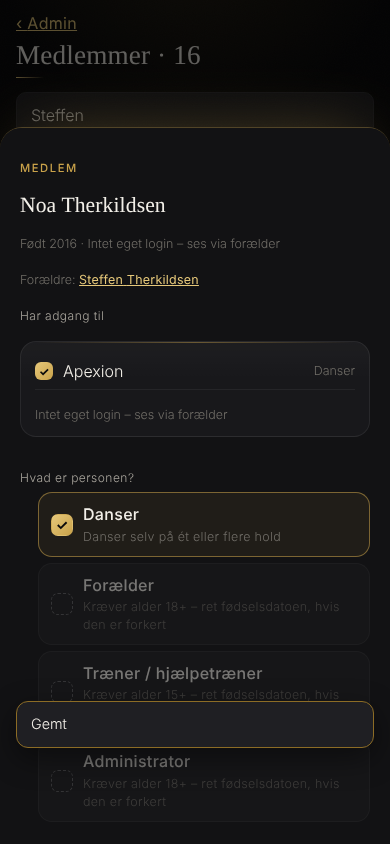
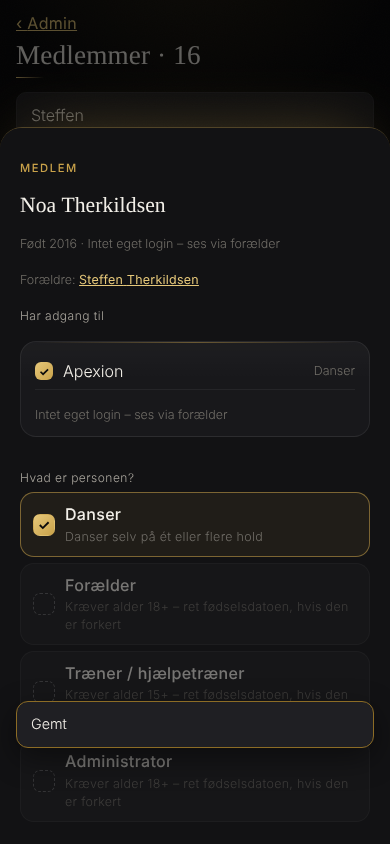
Admin members: pick existing dancer as child, drafted children created on Save, cleaner children UI
Claude-Session: https://claude.ai/code/session_01GGpukzb1UrCDBdg1Js3mqC

diff --git a/src/domain/llds/admin/MemberSheet.tsx b/src/domain/llds/admin/MemberSheet.tsx
@@ -37,10 +37,13 @@ export function MemberSheet({ member: p, all, teams, onClose, onChanged, onOpen,
   const [ms, setMs] = useState<{ team_id: string; role: Role }[]>(p.memberships.map((m) => ({ team_id: m.team_id, role: m.role })));
   const [kids, setKids] = useState<string[]>(p.children.map((c) => c.id));
   // children's dancer teams (draft) – edited through the "Forælder" chip on a team row
-  const [kidTeams, setKidTeams] = useState<Record<string, string[]>>(() => Object.fromEntries(p.children.map((c) => [c.id, (all.find((x) => x.id === c.id)?.memberships ?? []).filter((m) => m.role === "dancer").map((m) => m.team_id)])));
+  const [kidTeams] = useState<Record<string, string[]>>(() => Object.fromEntries(p.children.map((c) => [c.id, (all.find((x) => x.id === c.id)?.memberships ?? []).filter((m) => m.role === "dancer").map((m) => m.team_id)])));
   const [kidQ, setKidQ] = useState("");
+  const kidChips = (ids: string[], onToggle: (id: string) => void) => <div className="chips tight wrap">{[...teams].sort((a, b) => a.name.localeCompare(b.name, "da")).map((tm) => <button key={tm.id} type="button" className={"chip small" + (ids.includes(tm.id) ? " on" : "")} onClick={() => onToggle(tm.id)}>{tm.name}</button>)}</div>;
   const [pickOpen, setPickOpen] = useState(false);
   const [newKid, setNewKid] = useState<{ first_name: string; birth_date: string; team_ids: string[] } | null>(null);
+  // children drafted in this sheet – created only when Gem is pressed, so a wrong "Tilføj" can simply be removed again
+  const [drafts, setDrafts] = useState<{ tmp: string; first_name: string; birth_date: string; team_ids: string[] }[]>([]);
   const [busy, setBusy] = useState(false);
   const [confirmOff, setConfirmOff] = useState(false);
 
@@ -59,24 +62,32 @@ export function MemberSheet({ member: p, all, teams, onClose, onChanged, onOpen,
   }, [teams, t]);
 
   const candidates = useMemo(() => {
-    const q = kidQ.trim().toLowerCase(); if (q.length < 2) return [];
-    return all.filter((x) => x.id !== p.id && !kids.includes(x.id) && (!x.user_id || x.supervised_by) && `${x.first_name} ${x.last_name}`.toLowerCase().includes(q)).slice(0, 6);
-  }, [kidQ, all, kids, p.id]);
+    if (!pickOpen) return [];
+    const q = kidQ.trim().toLowerCase();
+    const ageOf = (x: Member) => (x.birth_date ? Math.floor((Date.now() - new Date(x.birth_date).getTime()) / 31557600000) : x.birth_year ? new Date().getFullYear() - x.birth_year : null);
+    const list = all.filter((x) => x.id !== p.id && !kids.includes(x.id) && !x.is_admin && (!q || `${x.first_name} ${x.last_name}`.toLowerCase().includes(q)));
+    // existing dancers first (youngest first), then everyone else alphabetically
+    const rank = (x: Member) => (x.memberships.some((m) => m.role === "dancer") ? 0 : 1) * 1000 + (ageOf(x) ?? 500);
+    return list.sort((a, b) => rank(a) - rank(b) || a.first_name.localeCompare(b.first_name, "da")).slice(0, q ? 12 : 8);
+  }, [pickOpen, kidQ, all, kids, p.id]);
 
   const access = useMemo(() => {
     const rows: { team: string; via: string }[] = [];
     for (const m of ms) if ((m.role === "dancer" && dancer) || (m.role !== "dancer" && staff)) rows.push({ team: teamName(m.team_id), via: t(`roles.${m.role}`) });
     if (parent) for (const kid of kids) { const c = byId(kid); for (const tid of kidTeams[kid] ?? c?.memberships.filter((m) => m.role === "dancer").map((m) => m.team_id) ?? []) rows.push({ team: teamName(tid), via: t("admin.viaChild", { name: c?.first_name ?? "" }) }); }
+    if (parent) for (const d of drafts) for (const tid of d.team_ids) rows.push({ team: teamName(tid), via: t("admin.viaChild", { name: d.first_name }) });
     return rows.sort((a, b) => a.team.localeCompare(b.team, "da"));
     // eslint-disable-next-line react-hooks/exhaustive-deps
-  }, [ms, dancer, staff, parent, kids, kidTeams, all, teams]);
+  }, [ms, dancer, staff, parent, kids, kidTeams, drafts, all, teams]);
 
   const save = async () => {
     setBusy(true);
     try {
       await api.setMemberships(p.id, ms.filter((m) => (m.role === "dancer" ? dancer : staff)));
       if (canParent) {
-        await api.setGuardians(p.id, parent ? kids : []);
+        const created: string[] = [];
+        if (parent) for (const d of drafts) created.push(await api.createChild({ parent_id: p.id, first_name: d.first_name, last_name: p.last_name, birth_date: d.birth_date || null, team_ids: d.team_ids }));
+        await api.setGuardians(p.id, parent ? [...kids, ...created] : []);
         if (parent) for (const kid of kids) { const c = byId(kid); if (!c || !kidTeams[kid]) continue; const keep = c.memberships.filter((m) => m.role !== "dancer").map((m) => ({ team_id: m.team_id, role: m.role })); await api.setMemberships(kid, [...keep, ...kidTeams[kid].map((team_id) => ({ team_id, role: "dancer" as Role }))]); }
       }
       if (canAdmin && admin !== p.is_admin) await api.setAdmin(p.id, admin);
@@ -84,16 +95,15 @@ export function MemberSheet({ member: p, all, teams, onClose, onChanged, onOpen,
     } catch (x) { toast(t("common.error") + ": " + String((x as Error).message ?? x)); }
     finally { setBusy(false); }
   };
-  const createKid = async () => {
+  const addDraft = () => {
     if (!newKid || !newKid.first_name.trim()) return;
-    setBusy(true);
-    try { const cid = await api.createChild({ parent_id: p.id, first_name: newKid.first_name, last_name: p.last_name, birth_date: newKid.birth_date || null, team_ids: newKid.team_ids }); setKids((k) => [...k, cid]); setKidTeams((k) => ({ ...k, [cid]: newKid.team_ids })); setNewKid(null); onChanged(); toast(t("admin.childCreated", { name: newKid.first_name })); }
-    finally { setBusy(false); }
+    setDrafts((d) => [...d, { tmp: "tmp-" + Date.now(), first_name: newKid.first_name.trim(), birth_date: newKid.birth_date, team_ids: newKid.team_ids }]);
+    setNewKid(null);
   };
 
   const login = p.supervised_by ? t("admin.loginChild") : p.user_id ? t("admin.loginOwn", { email: p.email ?? "" }) : p.email ? t("admin.loginPending", { email: p.email }) : p.parents.length ? t("admin.loginNone") : t("admin.loginNoEmail");
   const year = p.birth_date ? new Date(p.birth_date).getFullYear() : p.birth_year;
-  const anyRole = dancer || staff || (parent && kids.length > 0);
+  const anyRole = dancer || staff || (parent && (kids.length > 0 || drafts.length > 0));
 
   return (
     <Sheet onClose={onClose} eyebrow={t("admin.member")} title={`${p.first_name} ${p.last_name}`}>
@@ -123,20 +133,29 @@ export function MemberSheet({ member: p, all, teams, onClose, onChanged, onOpen,
         <p className="tiny muted" style={{ margin: "0 0 6px" }}>{t("admin.childrenHint")}</p>
         <div className="checklist" data-testid="kids">
           {kids.map((id) => { const c = byId(id); if (!c) return null; const tms = (kidTeams[id] ?? c.memberships.filter((m) => m.role === "dancer").map((m) => m.team_id)).map(teamName); return (
-            <div key={id} className="checkrow on static"><span className="box" aria-hidden>✓</span><span className="grow"><span className="lbl">{c.first_name} {c.last_name}</span><span className="tiny">{[c.birth_year ? String(c.birth_year) : null, tms.length ? tms.join(" · ") : t("admin.noTeams")].filter(Boolean).join(" · ")}</span></span>
-              <button type="button" className="chip small" onClick={() => onOpen(c)}>{t("admin.editChild")}</button><button type="button" className="chip small danger" aria-label={t("admin.unlink")} onClick={() => setKids((k) => k.filter((x) => x !== id))}>×</button></div>); })}
-          {!kids.length && <p className="tiny muted" style={{ margin: "4px 0" }}>{t("admin.noChildrenYet")}</p>}
+            <div key={id} className="checkrow kidrow on static"><span className="box" aria-hidden>✓</span><span className="grow"><span className="lbl">{c.first_name} {c.last_name}</span><span className="tiny">{[c.birth_year ? String(c.birth_year) : null, tms.length ? tms.join(" · ") : t("admin.noTeams")].filter(Boolean).join(" · ")}</span></span>
+              <span className="acts"><button type="button" className="chip small" onClick={() => onOpen(c)}>{t("admin.editChild")}</button><button type="button" className="chip small danger" aria-label={t("admin.unlink")} title={t("admin.unlink")} onClick={() => setKids((k) => k.filter((x) => x !== id))}>×</button></span></div>); })}
+          {drafts.map((d) => <div key={d.tmp} className="checkrow kidrow on static" data-testid="kid-draft"><span className="box" aria-hidden>✓</span><span className="grow"><span className="lbl">{d.first_name} {p.last_name} <span className="tiny" style={{ display: "inline" }}>· {t("admin.draftNew")}</span></span><span className="tiny">{[d.birth_date ? d.birth_date.slice(0, 4) : null, d.team_ids.length ? d.team_ids.map(teamName).join(" · ") : t("admin.noTeams")].filter(Boolean).join(" · ")}</span></span>
+            <span className="acts"><button type="button" className="chip small danger" aria-label={t("admin.removeDraft")} title={t("admin.removeDraft")} onClick={() => setDrafts((x) => x.filter((y) => y.tmp !== d.tmp))}>×</button></span></div>)}
+          {!kids.length && !drafts.length && <p className="tiny muted" style={{ margin: "4px 0" }}>{t("admin.noChildrenYet")}</p>}
         </div>
-        {!newKid && <div className="row" style={{ marginTop: 8 }}>
-          <input id="kid-search" placeholder={t("admin.findChild")} value={kidQ} onChange={(e) => setKidQ(e.target.value)} data-testid="kid-search" autoFocus={pickOpen} />
-          <button type="button" className="chip" onClick={() => setNewKid({ first_name: "", birth_date: "", team_ids: [] })}>+ {t("admin.newChild")}</button>
+        {!newKid && !pickOpen && <div className="kidactions">
+          <button type="button" className="chip" data-testid="kid-pick-open" onClick={() => { setPickOpen(true); setTimeout(() => document.getElementById("kid-search")?.focus(), 50); }}>{t("admin.pickExisting")}</button>
+          <button type="button" className="chip" data-testid="kid-new-open" onClick={() => setNewKid({ first_name: "", birth_date: "", team_ids: [] })}>+ {t("admin.newChild")}</button>
         </div>}
-        {candidates.length > 0 && <div className="card list" style={{ marginTop: 6 }}>{candidates.map((c) => <button key={c.id} type="button" className="item" onClick={() => { setKids((k) => [...k, c.id]); setKidQ(""); }}><span className="grow">{c.first_name} {c.last_name}<div className="tiny">{c.memberships.map((m) => teamName(m.team_id)).join(" · ") || t("admin.noTeams")}{c.parents.length ? ` · ${t("admin.parents")}: ${c.parents.map((g) => g.first_name).join(", ")}` : ""}</div></span><span className="gold">+</span></button>)}</div>}
-        {newKid && <div className="card stack" style={{ marginTop: 8 }} data-testid="new-kid">
-          <div className="grid2"><label>{t("admin.inviteChildName")}<input value={newKid.first_name} onChange={(e) => setNewKid({ ...newKid, first_name: e.target.value })} /></label><label>{t("admin.inviteBirth")}<input type="date" value={newKid.birth_date} onChange={(e) => setNewKid({ ...newKid, birth_date: e.target.value })} /></label></div>
-          <div className="eyebrow">{t("admin.dancerOn")}</div>
-          <div className="checklist cols">{teams.map((tm) => <Check key={tm.id} on={newKid.team_ids.includes(tm.id)} onChange={() => setNewKid({ ...newKid, team_ids: toggleIn(newKid.team_ids, tm.id) })}>{tm.name}</Check>)}</div>
-          <div className="row"><button type="button" className="cta grow" disabled={busy || !newKid.first_name.trim()} onClick={() => void createKid()}>{t("admin.createChild")}</button><button type="button" className="ghost" onClick={() => setNewKid(null)}>{t("common.cancel")}</button></div>
+        {pickOpen && !newKid && <div className="card stack kidpick" style={{ marginTop: 8 }} data-testid="kid-pick">
+          <div className="head row between"><span className="eyebrow">{t("admin.pickExisting")}</span><button type="button" className="ghost small" onClick={() => { setPickOpen(false); setKidQ(""); }}>{t("common.cancel")}</button></div>
+          <input id="kid-search" placeholder={t("admin.findChild")} value={kidQ} onChange={(e) => setKidQ(e.target.value)} data-testid="kid-search" />
+          <div className="list">{candidates.map((c) => <button key={c.id} type="button" className="item" onClick={() => { setKids((k) => [...k, c.id]); setKidQ(""); setPickOpen(false); }}><span className="grow">{c.first_name} {c.last_name}<div className="tiny">{[c.birth_year ? String(c.birth_year) : null, c.memberships.filter((m) => m.role === "dancer").map((m) => teamName(m.team_id)).join(" · ") || t("admin.noTeams"), c.parents.length ? `${t("admin.parents")}: ${c.parents.map((g) => g.first_name).join(", ")}` : null].filter(Boolean).join(" · ")}</div></span><span className="gold">+</span></button>)}
+            {!candidates.length && <p className="tiny muted" style={{ margin: "6px 0" }}>{t("admin.noMatch")}</p>}</div>
+        </div>}
+        {newKid && <div className="card stack newkid" style={{ marginTop: 8 }} data-testid="new-kid">
+          <div className="head"><span className="eyebrow">{t("admin.newChild")}</span><button type="button" className="ghost small" onClick={() => setNewKid(null)}>{t("common.cancel")}</button></div>
+          <div className="grid2"><label>{t("admin.inviteChildName")}<input value={newKid.first_name} onChange={(e) => setNewKid({ ...newKid, first_name: e.target.value })} autoFocus /></label><label>{t("admin.inviteBirth")}<input type="date" value={newKid.birth_date} onChange={(e) => setNewKid({ ...newKid, birth_date: e.target.value })} /></label></div>
+          <div className="tiny muted">{t("admin.dancerOn")} <span className="muted">· {t("admin.optional")}</span></div>
+          {kidChips(newKid.team_ids, (id) => setNewKid({ ...newKid, team_ids: toggleIn(newKid.team_ids, id) }))}
+          <button type="button" className="cta" disabled={!newKid.first_name.trim()} onClick={addDraft} data-testid="kid-add">{t("admin.addChild")}</button>
+          <p className="tiny muted" style={{ margin: 0 }}>{t("admin.draftHint")}</p>
         </div>}
       </div>}
 

diff --git a/src/styles.css b/src/styles.css
@@ -490,6 +490,11 @@ button.cta { box-shadow:0 10px 26px -12px rgba(201,162,74,.7); }
 
 /* Admin → Medlemmer: explicit check rows so roles and access are unambiguous */
 .checklist{display:flex;flex-direction:column;gap:6px}.checklist.cols{display:grid;grid-template-columns:1fr 1fr;gap:6px}
+div.checklist{padding-left:0;color:inherit}
+.kidrow .acts{display:flex;gap:6px;flex:none}.kidrow .chip.small{padding:4px 9px}
+.kidactions{display:flex;gap:8px;margin-top:8px}.kidactions .chip{flex:1;justify-content:center;text-align:center;white-space:nowrap;padding:9px 10px}
+.kidpick .list .item .tiny{margin-top:2px}.kidpick input{width:100%;box-sizing:border-box}
+.newkid .grid2 label{display:block;font-size:.85rem;color:var(--muted)}.newkid .grid2 input{width:100%;box-sizing:border-box;margin-top:4px}.newkid .chips.wrap{flex-wrap:wrap}.newkid .head{display:flex;align-items:center;justify-content:space-between}.newkid .head .eyebrow{margin:0}
 .checkrow{display:flex;align-items:center;gap:10px;text-align:left;padding:10px 12px;border-radius:14px;background:rgba(255,255,255,.04);border:1px solid rgba(255,255,255,.08);color:var(--fg);font:inherit;cursor:pointer;min-height:44px}
 .checkrow.on{border-color:rgba(201,162,74,.55);background:rgba(201,162,74,.08)}.checkrow.static{cursor:default}
 .checkrow .box{flex:none;width:22px;height:22px;border-radius:7px;border:1.5px solid rgba(255,255,255,.3);display:grid;place-items:center;font-size:14px;font-weight:700;color:#0a0a0b}
